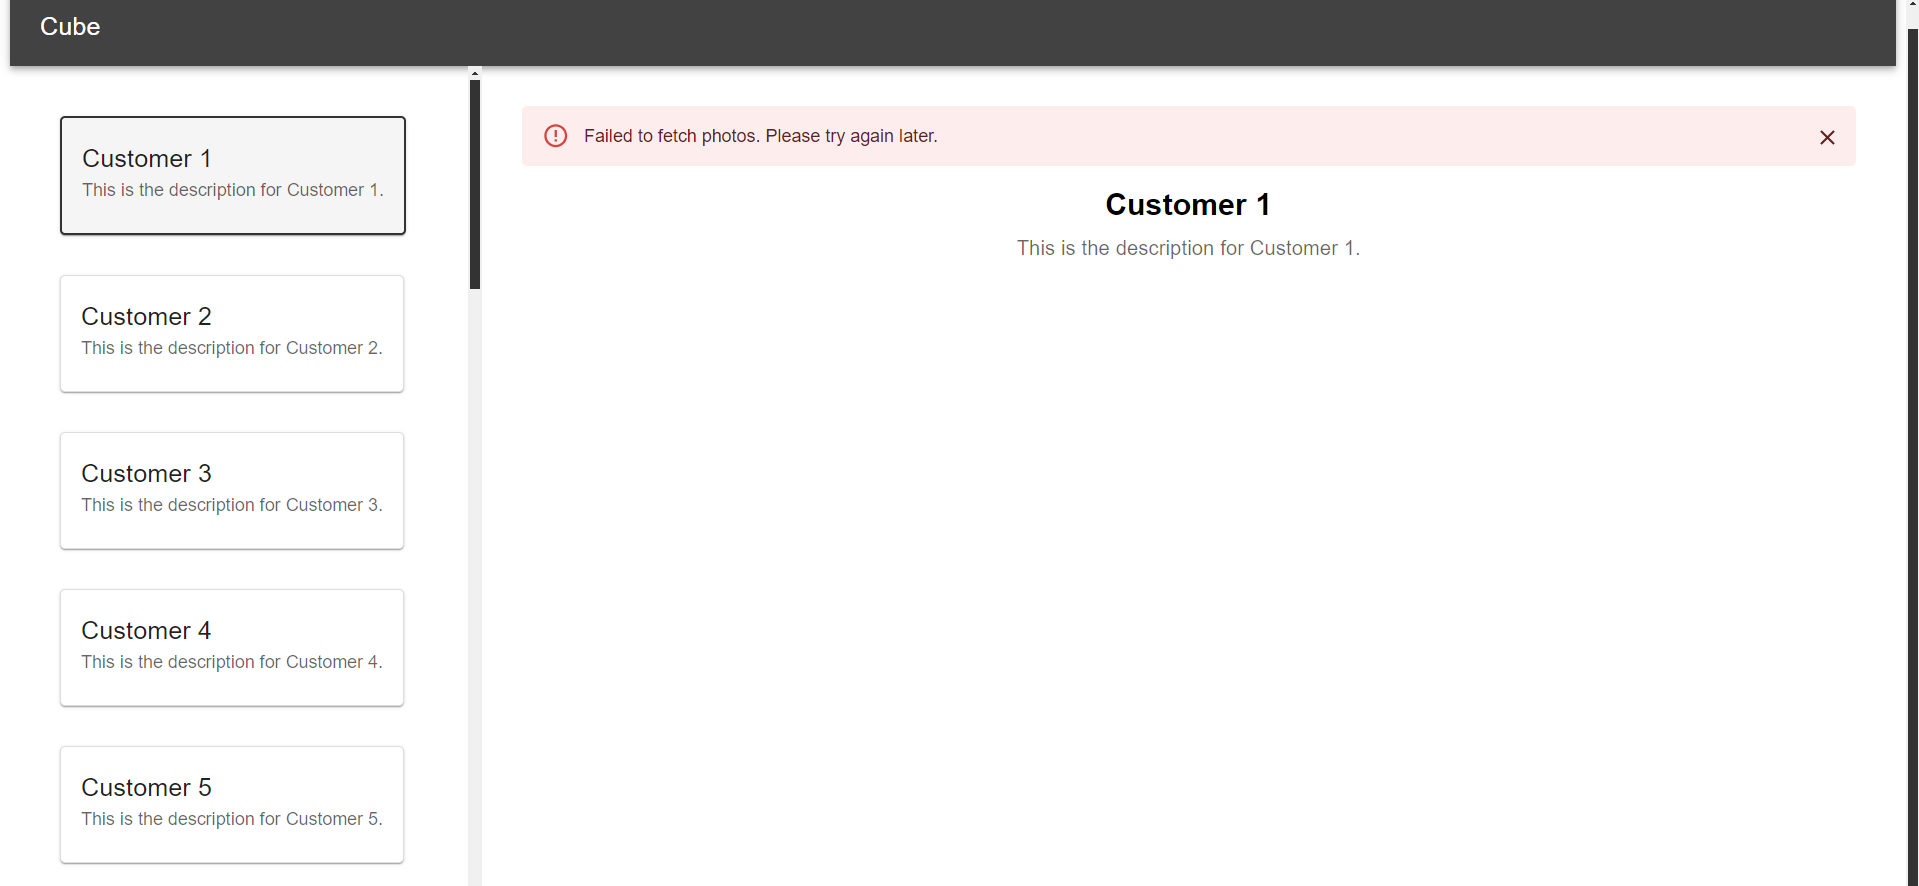
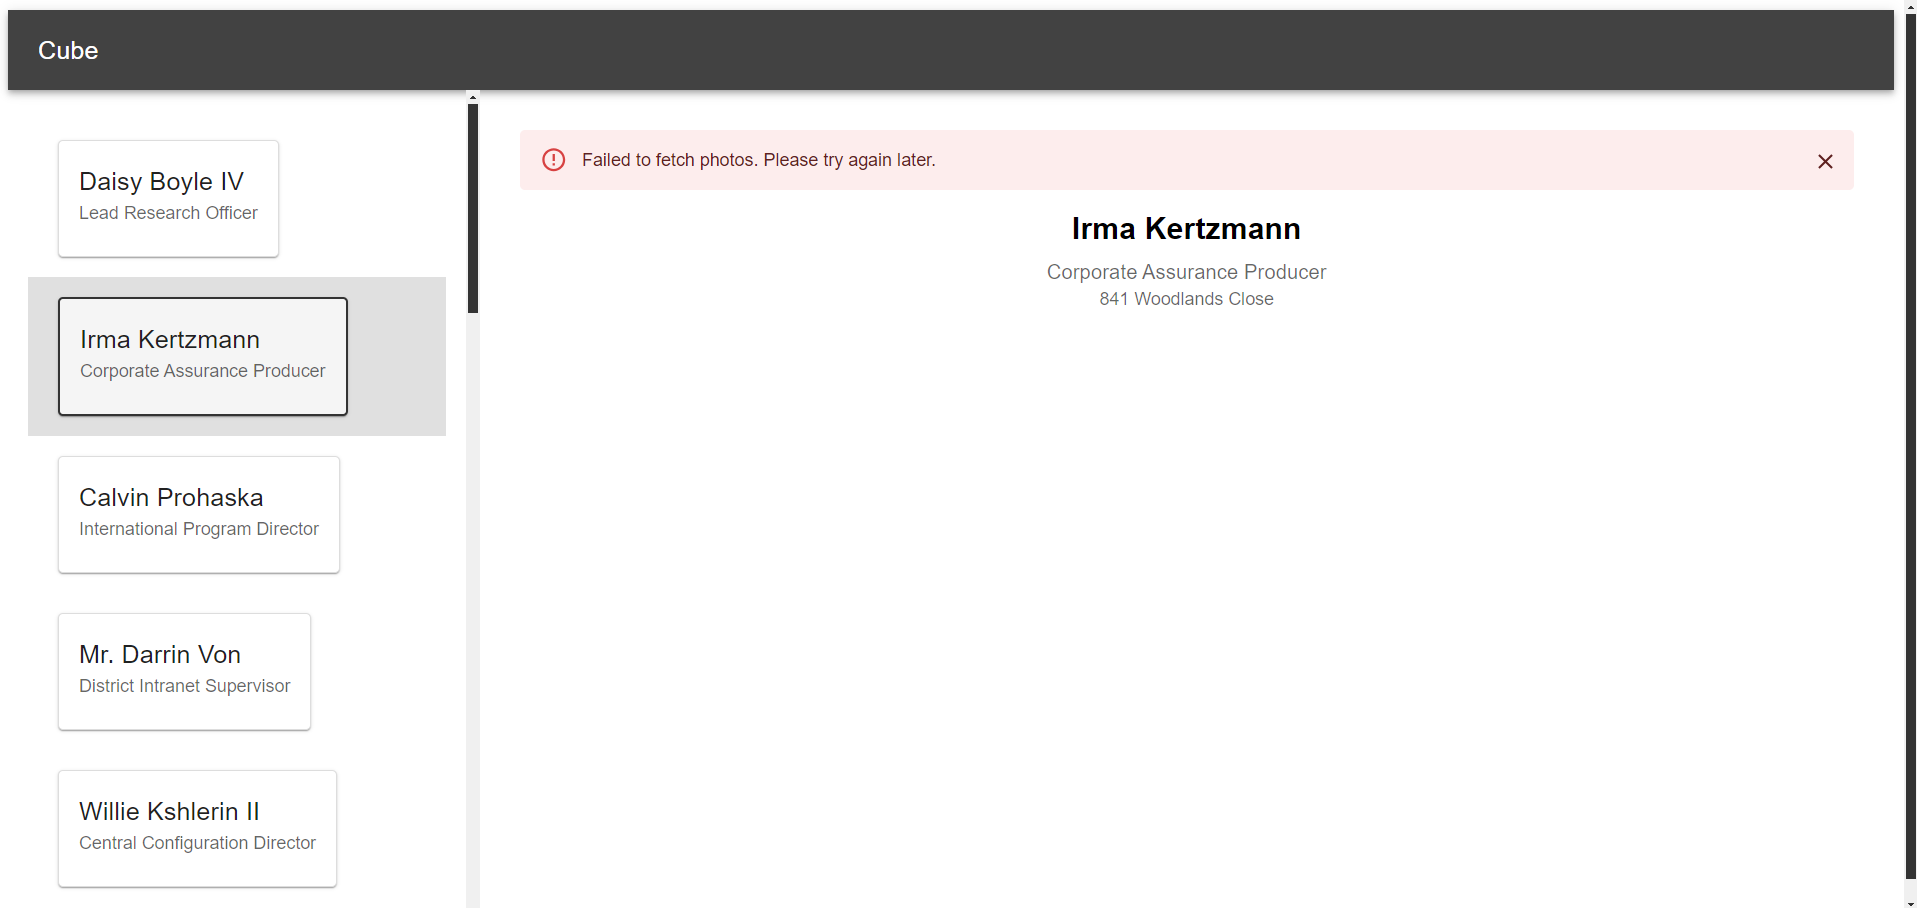
Added Fake names, title, address for customers

diff --git a/src/components/CustomerCard.tsx b/src/components/CustomerCard.tsx
@@ -3,15 +3,12 @@ import { Card, CardContent, Typography } from '@mui/material';
 
 interface CustomerCardProps {
     name: string;
-    description: string;
+    title: string;
     isSelected: boolean;
     onClick: () => void;
 }
 
-const CustomerCard: React.FC<CustomerCardProps> = ({ name, description, isSelected, onClick }) => {
-    // Shorten the description if it's longer than 100 characters
-    const shortDescription = description.length > 100 ? `${description.substring(0, 97)}...` : description;
-
+const CustomerCard: React.FC<CustomerCardProps> = ({ name, title, isSelected, onClick }) => {
     return (
         <Card 
             onClick={onClick} 
@@ -28,7 +25,7 @@ const CustomerCard: React.FC<CustomerCardProps> = ({ name, description, isSelect
         >
             <CardContent>
                 <Typography variant="h6">{name}</Typography>
-                <Typography variant="body2" color="textSecondary">{shortDescription}</Typography>
+                <Typography variant="body2" color="textSecondary">{title}</Typography>
             </CardContent>
         </Card>
     );

diff --git a/src/api/index.ts b/src/api/index.ts
@@ -1,19 +1,19 @@
-// src/api/index.ts
-
 import axios from "axios";
-
+import { faker } from '@faker-js/faker';
 
 export interface Customer {
     id: number;
     name: string;
-    description: string;
+    title: string;
+    address: string;
 }
 
 export const fetchCustomers = async (page: number, pageSize: number): Promise<Customer[]> => {
     const customers: Customer[] = Array.from({ length: 100 }, (_, i) => ({
         id: i + 1,
-        name: `Customer ${i + 1}`,
-        description: `This is the description for Customer ${i + 1}.`,
+        name: faker.person.fullName(), // Use Faker#person.fullName()
+        title: faker.person.jobTitle(), // Use Faker#person.jobTitle()
+        address: faker.location.streetAddress(), // Use Faker#location.streetAddress()
     }));
 
     // Simulate pagination
@@ -24,6 +24,7 @@ export const fetchCustomers = async (page: number, pageSize: number): Promise<Cu
         setTimeout(() => resolve(paginatedCustomers), 500);
     });
 };
+
 
 export const fetchPhotos = async () => {
     try {

diff --git a/src/components/CustomerDetails.tsx b/src/components/CustomerDetails.tsx
@@ -58,7 +58,10 @@ const CustomerDetails: React.FC = () => {
                     {selectedCustomer.name}
                 </Typography>
                 <Typography variant="body1" color="textSecondary">
-                    {selectedCustomer.description}
+                    {selectedCustomer.title}
+                </Typography>
+                <Typography variant="body2" color="textSecondary">
+                    {selectedCustomer.address}
                 </Typography>
             </Box>
 

diff --git a/src/components/CustomerList.tsx b/src/components/CustomerList.tsx
@@ -39,7 +39,7 @@ const CustomerList: React.FC = () => {
                     >
                         <CustomerCard
                             name={customer.name}
-                            description={customer.description}
+                            title={customer.title}
                             isSelected={selectedCustomerId === customer.id}
                             onClick={() => setSelectedCustomer(customer.id)}
                         />

diff --git a/src/store/useCustomerStore.ts b/src/store/useCustomerStore.ts
@@ -1,12 +1,11 @@
-// src/store/useCustomerStore.tsx
-
 import { create } from 'zustand';
 import { fetchCustomers } from '../api';
 
 interface Customer {
     id: number;
     name: string;
-    description: string;
+    title: string;
+    address: string;
 }
 
 interface CustomerStore {

diff --git a/README.md b/README.md
@@ -1,6 +1,6 @@
 # Cube 🚀
 
-[![Deployment Link](https://img.shields.io/badge/Deployment-Link-brightgreen)](your_deployment_link) 🌈
+[![Deployment Link](https://img.shields.io/badge/Deployment-Link-brightgreen)](https://cubeimg.netlify.app/) 🌈
 
 ## Technologies Used
 
@@ -29,7 +29,7 @@
 
 | Customers List | Customer Details |
 |--------------|-------------|
-| ![Customer List](screenshots/customer-list.jpg) | ![Customer Details](screenshots/customer-details.jpg) |
+| ![Customer List](screenshots/customer-list.png) | ![Customer Details](screenshots/customer-details.png) |
 
 ### Error Page (Custom Alert)
 
